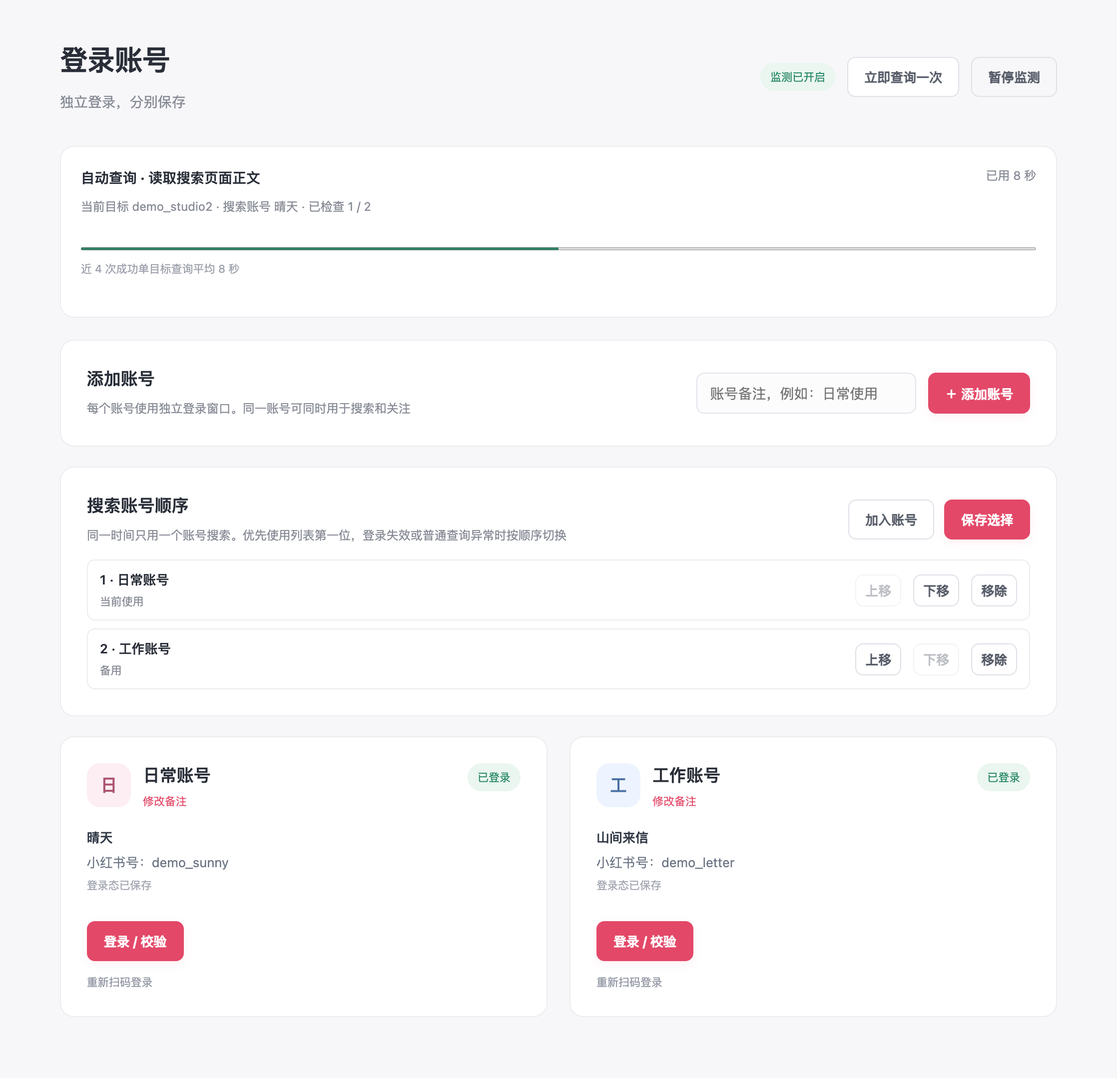
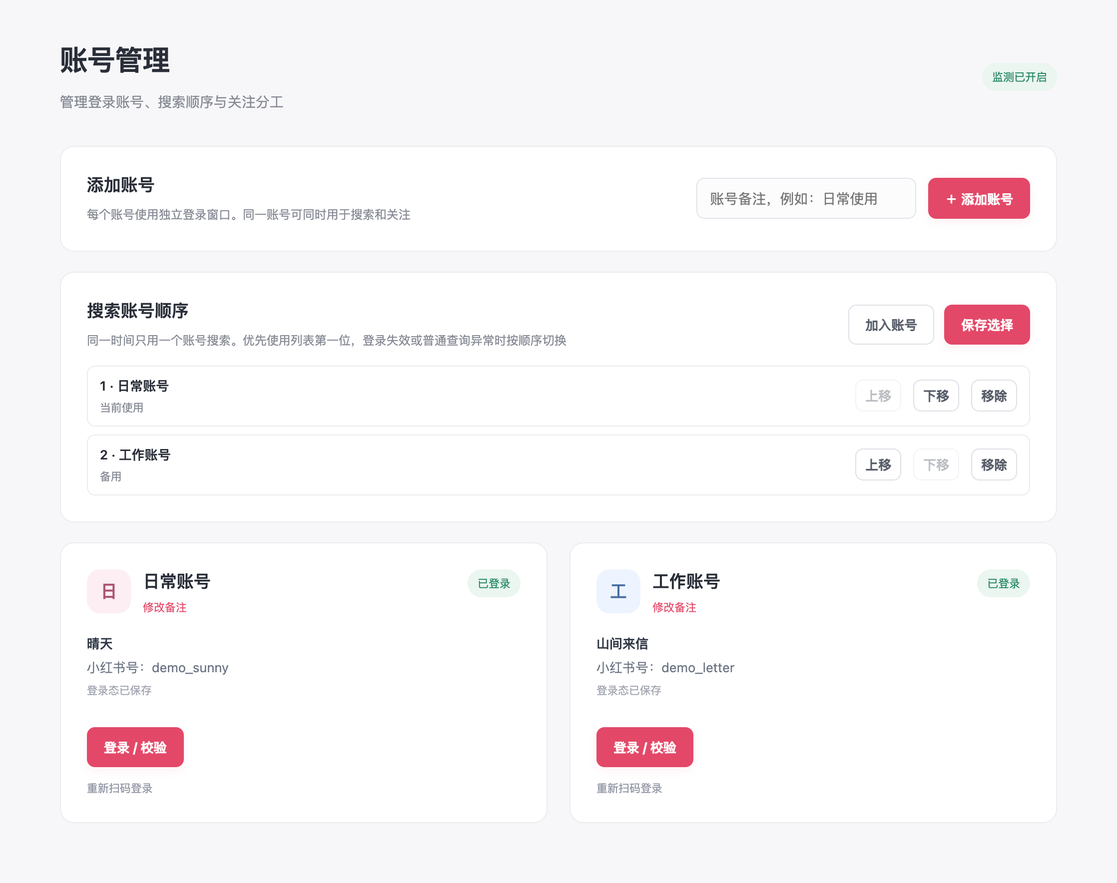
Combine monitoring overview and stabilize initial rendering
Keep metrics, query progress, and controls together on the overview page. Rename navigation pages, align icon slots, bootstrap public state safely to avoid empty refresh renders, and refresh README screenshots.

diff --git a/web/index.html b/web/index.html
@@ -1,9 +1,17 @@
 <!doctype html><html lang="zh-CN"><head><meta charset="utf-8"><meta name="viewport" content="width=device-width,initial-scale=1"><meta name="csrf-token" content="__CSRF_TOKEN__"><title>红薯雷达 · Rednote Watchdesk</title><link rel="icon" type="image/svg+xml" href="/favicon.svg"><link rel="stylesheet" href="/css/style.css"><link rel="stylesheet" href="/css/motion.css"><script type="module" src="/js/app.js"></script></head><body>
-<aside><a class="brand" href="/"><img class="brand-icon" src="/favicon.svg" width="43" height="43" alt=""><span>红薯雷达<small>REDNOTE WATCHDESK</small></span></a><nav><button class="nav active" data-tab="people" aria-current="page">◎ <span>监控目标</span></button><button class="nav" data-tab="accounts">◉ <span>登录账号</span></button><button class="nav" data-tab="settings">⚙ <span>轮询与通知</span></button></nav></aside>
-<main><header><div><h1 id="page-title">监控目标</h1><p id="page-subtitle">管理候选账号、查询状态与自动关注</p></div><div class="header-actions"><span id="global-status" class="pill">读取中</span><button class="button" id="check-now" disabled title="按已保存配置运行一轮，暂停时也可使用；不会开启自动轮询">立即查询一次</button><button class="button quiet" id="pause">暂停监测</button><button class="button quiet hidden" id="resume">恢复监测</button></div></header>
-<section id="query-progress" class="panel" aria-live="polite"><div class="row"><strong id="query-progress-title">查询进度 · 等待首次查询</strong><span id="query-progress-elapsed">尚无记录</span></div><p id="query-progress-detail">暂无查询记录</p><progress id="query-progress-bar" max="1" value="0" aria-label="查询目标完成进度"></progress><p id="query-progress-hint" class="hint">自动和手动查询的进度都会显示在这里。</p></section>
-<section id="people-tab"><div class="stats" aria-busy="true"><div><span>监控目标</span><strong id="people-count">—</strong></div><div><span>候选账号</span><strong id="candidate-count">—</strong></div><div><span>已经命中</span><strong id="matched-count">—</strong></div><div><span>后台最近运行</span><strong class="time" id="last-run">—</strong></div></div><div class="section-heading people-toolbar">
-  <div><h2>监控列表</h2><p>任一候选命中后，同组其余候选将停止查询</p></div>
+<aside><a class="brand" href="/"><img class="brand-icon" src="/favicon.svg" width="43" height="43" alt=""><span>红薯雷达<small>REDNOTE WATCHDESK</small></span></a><nav><button class="nav active" data-tab="people" aria-current="page"><span class="nav-icon" aria-hidden="true">◎</span><span class="nav-label">监测总览</span></button><button class="nav" data-tab="accounts"><span class="nav-icon" aria-hidden="true">◉</span><span class="nav-label">账号管理</span></button><button class="nav" data-tab="settings"><span class="nav-icon" aria-hidden="true">⚙</span><span class="nav-label">监测设置</span></button></nav></aside>
+<main><header><div><h1 id="page-title">监测总览</h1><p id="page-subtitle">查看监测状态、查询进度与目标动态</p></div><div class="header-actions"><span id="global-status" class="pill">读取中</span></div></header>
+<section id="people-tab">
+  <section class="panel overview-card" aria-labelledby="overview-title">
+    <div class="overview-heading">
+      <div><h2 id="overview-title">监测概览</h2><p class="overview-meta">最近调度 <span id="last-run">尚未运行</span></p></div>
+      <div class="overview-actions"><button class="button primary" id="check-now" disabled title="按已保存配置运行一轮，暂停时也可使用；不会开启自动轮询">立即查询一次</button><button class="button quiet" id="pause">暂停监测</button><button class="button quiet hidden" id="resume">恢复监测</button></div>
+    </div>
+    <div class="stats" aria-busy="true"><div><span>目标总数</span><strong id="people-count">—</strong></div><div><span>待命中</span><strong id="pending-count">—</strong></div><div><span>已命中</span><strong id="matched-count">—</strong></div><div><span>需处理</span><strong id="attention-count">—</strong></div></div>
+    <div id="query-progress" aria-live="polite"><div class="row"><strong id="query-progress-title">查询进度 · 等待首次查询</strong><span id="query-progress-elapsed">尚无记录</span></div><p id="query-progress-detail">暂无查询记录</p><progress id="query-progress-bar" max="1" value="0" aria-label="查询目标完成进度"></progress><p id="query-progress-hint" class="hint">自动和手动查询的进度都会显示在这里。</p></div>
+  </section>
+  <div class="section-heading people-toolbar">
+  <div><h2>监测目标</h2><p>管理候选账号，查看发现结果与自动关注状态</p></div>
   <div class="people-actions">
     <div class="people-action-buttons"><button class="button" id="add-person">＋ 新增目标</button><button class="button primary" id="save-people">保存配置</button></div>
     <span id="save-hint" role="status"></span>
@@ -74,4 +82,4 @@
     <div class="dialog-footer"><button type="button" id="cancel-rename-account" class="button">取消</button><button type="submit" id="save-account-label" class="button primary">保存备注</button></div>
   </form>
 </dialog>
-<div id="toast" role="status"></div></body></html>
+<div id="toast" role="status"></div><script id="initial-state" type="application/json">__INITIAL_STATE__</script></body></html>

diff --git a/web/css/style.css b/web/css/style.css
@@ -16,8 +16,9 @@ aside { position: fixed; inset: 0 auto 0 0; width: 242px; padding: 34px 22px; ba
 .brand-icon { display: block; flex: 0 0 auto; width: 43px; height: 43px; }
 .brand small { display: block; font-size: 8px; letter-spacing: 1.5px; margin-top: 7px; color: #989aa4; font-weight: 600; }
 nav { margin-top: 50px; display: grid; gap: 10px; }
-.nav { border: 0; background: transparent; border-radius: 10px; padding: 15px; text-align: left; color: #8b8e99; font-size: 18px; }
-.nav span { font-size: 14px; margin-left: 12px; }
+.nav { display: flex; align-items: center; gap: 12px; border: 0; background: transparent; border-radius: 10px; padding: 15px; text-align: left; color: #8b8e99; }
+.nav-icon { display: grid; place-items: center; flex: 0 0 24px; width: 24px; font-size: 20px; line-height: 1; }
+.nav-label { font-size: 14px; }
 .nav.active { color: var(--pink); background: #fff0f4; font-weight: 650; }
 main { margin-left: 242px; padding: 40px clamp(24px, 4.4vw, 76px); max-width: 1600px; }
 header { display: flex; align-items: center; justify-content: space-between; gap: 20px; margin-bottom: 32px; }
@@ -33,13 +34,20 @@ p { color: var(--muted); line-height: 1.7; margin: 0; }
 .button.primary { background: var(--pink); border-color: var(--pink); color: #fff; box-shadow: 0 3px 9px #e3486815; }
 .button.quiet { background: transparent; }
 .button:disabled { opacity: .5; cursor: wait; }
-.stats { display: grid; grid-template-columns: repeat(4, 1fr); background: #fff; border: 1px solid var(--line); border-radius: 14px; padding: 23px 0; margin-bottom: 30px; }
+.overview-card { margin-bottom: 24px; }
+.overview-heading { display: flex; align-items: center; justify-content: space-between; gap: 18px; margin-bottom: 24px; }
+.overview-heading h2 { margin: 0; }
+.overview-meta { margin-top: 6px; font-size: 11px; }
+.overview-actions { display: flex; flex-wrap: wrap; justify-content: flex-end; gap: 10px; }
+.stats { display: grid; grid-template-columns: repeat(4, 1fr); }
 .stats > div { padding: 0 25px; border-right: 1px solid var(--line); }
+.stats > div:first-child { padding-left: 0; }
 .stats > div:last-child { border: 0; }
 .stats span { display: block; font-size: 12px; color: #9195a0; }
 .stats strong { display: block; margin-top: 10px; font-size: 28px; font-weight: 650; }
 .stats[aria-busy="true"] strong { visibility: hidden; }
-.stats .time { font-size: 20px; padding-top: 5px; }
+#matched-count { color: var(--green); }
+#attention-count.has-attention { color: #b77937; }
 .section-heading { display: flex; justify-content: space-between; align-items: center; gap: 18px; margin-bottom: 22px; }
 .section-heading p { font-size: 12px; }
 .list-tools { display: flex; align-items: center; justify-content: space-between; gap: 16px; margin-bottom: 17px; }
@@ -95,7 +103,7 @@ p { color: var(--muted); line-height: 1.7; margin: 0; }
 .match-summary { color: #4f8d70; }
 .match-info a { display: inline-block; margin-top: 4px; color: #5e917a; text-decoration: none; }
 .query-error { color: #a76b38; }
-#query-progress { display: grid; gap: 8px; padding: 20px; margin-bottom: 22px; overflow-wrap: anywhere; }
+#query-progress { display: grid; gap: 8px; padding-top: 20px; margin-top: 24px; border-top: 1px solid var(--line); overflow-wrap: anywhere; }
 #query-progress .row { display: grid; grid-template-columns: minmax(0, 1fr) auto; align-items: start; gap: 16px; margin: 0; }
 #query-progress-title { min-width: 0; line-height: 1.6; overflow: hidden; text-overflow: ellipsis; white-space: nowrap; }
 #query-progress-elapsed { color: var(--muted); font-size: 12px; }
@@ -156,7 +164,6 @@ p { color: var(--muted); line-height: 1.7; margin: 0; }
   h1 { font-size: 25px; }
   .header-actions { flex-direction: column; align-items: flex-end; }
   .stats > div { padding: 0 14px; }
-  .stats .time { font-size: 16px; }
   .target-grid { grid-template-columns: repeat(2, minmax(0, 1fr)); gap: 14px; }
   .person-top, .person-body { padding-left: 14px; padding-right: 14px; }
   .target-meta, .follow-option { padding-left: 14px; padding-right: 14px; }
@@ -167,16 +174,20 @@ p { color: var(--muted); line-height: 1.7; margin: 0; }
   .brand-icon { width: 34px; height: 34px; }
   .brand small { font-size: 7px; margin-top: 4px; }
   nav { display: flex; gap: 5px; margin-top: 18px; }
-  .nav { flex: 1; padding: 10px 6px; text-align: center; font-size: 14px; }
-  .nav span { margin-left: 4px; font-size: 11px; }
+  .nav { flex: 1; justify-content: center; gap: 6px; padding: 10px 6px; }
+  .nav-icon { flex-basis: 18px; width: 18px; font-size: 16px; }
+  .nav-label { font-size: 11px; }
   main { margin: 0; padding: 27px 18px; }
   h1 { font-size: 24px; }
   header p { font-size: 12px; }
   .header-actions { gap: 10px; }
-  .stats { grid-template-columns: 1fr 1fr; gap: 20px 0; padding: 22px 0; }
+  .overview-heading { flex-direction: column; align-items: stretch; }
+  .overview-actions { justify-content: stretch; }
+  .overview-actions .button { flex: 1; }
+  .stats { grid-template-columns: 1fr 1fr; gap: 20px 0; }
   .stats > div { padding: 0 20px; }
+  .stats > div:nth-child(odd) { padding-left: 0; }
   .stats > div:nth-child(2) { border: 0; }
-  .stats .time { font-size: 20px; }
   .section-heading p { max-width: 230px; }
   .target-grid { grid-template-columns: repeat(2, minmax(0, 1fr)); }
   .account-grid { grid-template-columns: 1fr; gap: 0; }

diff --git a/web/js/app.js b/web/js/app.js
@@ -37,8 +37,8 @@ function switchTab(tab) {
     else node.removeAttribute('aria-current');
   });
   reveal($('#page-title').parentElement, 5);
-  $('#page-title').textContent = {people: '监控目标', accounts: '登录账号', settings: '轮询与通知'}[tab];
-  $('#page-subtitle').textContent = {people: '管理候选账号、查询状态与自动关注', accounts: '独立登录，分别保存', settings: '让雷达按你的节奏运行'}[tab];
+  $('#page-title').textContent = {people: '监测总览', accounts: '账号管理', settings: '监测设置'}[tab];
+  $('#page-subtitle').textContent = {people: '查看监测状态、查询进度与目标动态', accounts: '管理登录账号、搜索顺序与关注分工', settings: '调整查询节奏与飞书通知'}[tab];
 }
 function readEditors() {
   // Hidden cards remain in the draft and must be included when saving a filtered list.
@@ -69,9 +69,15 @@ function cardState(card) {
 }
 function updateStats() {
   const people = readEditors();
+  const states = $$('.person-card').map(card => cardState(card).state);
+  const matched = states.filter(state => state?.matched_target).length;
+  const attention = states.filter(state => state?.query_errors?.length ||
+    ['failed', 'blocked', 'retry'].includes(state?.follow_status)).length;
   $('#people-count').textContent = people.length;
-  $('#candidate-count').textContent = people.reduce((count, person) => count + person.candidates.length, 0);
-  $('#matched-count').textContent = $$('.person-card').filter(card => cardState(card).state?.matched_target).length;
+  $('#pending-count').textContent = people.length - matched;
+  $('#matched-count').textContent = matched;
+  $('#attention-count').textContent = attention;
+  $('#attention-count').classList.toggle('has-attention', attention > 0);
   for (const card of $$('.person-card')) {
     const count = [...card.querySelectorAll('.candidate-input')].filter(input => input.value.trim()).length;
     card.querySelector('.candidate-total').textContent = count + ' 个候选';
@@ -378,18 +384,20 @@ function renderStatus({initial = false, saved = false} = {}) {
     applyFilters();
   }
 }
+function applySnapshot(snapshot) {
+  const initial = !latest;
+  latest = snapshot;
+  if (initial) {
+    searchAccountIds = latest.config.search_account_ids;
+    version = latest.version; $('#interval').value = latest.config.interval_seconds / 60;
+    renderPeople(latest.config.people);
+    $('#mentions').value = latest.notifications.mention_users.map(user => user.name + ',' + user.user_id).join('\n');
+  }
+  renderStatus({initial});
+}
 async function load() {
   try {
-    const snapshot = await api('/api/state');
-    const initial = !latest;
-    latest = snapshot;
-    if (initial) {
-      searchAccountIds = latest.config.search_account_ids;
-      version = latest.version; $('#interval').value = latest.config.interval_seconds / 60;
-      renderPeople(latest.config.people);
-      $('#mentions').value = latest.notifications.mention_users.map(user => user.name + ',' + user.user_id).join('\n');
-    }
-    renderStatus({initial});
+    applySnapshot(await api('/api/state'));
   } catch (error) { toast(error.message, true); }
 }
 async function savePeople() {
@@ -505,4 +513,10 @@ $('#save-notifications').onclick = async () => {
 };
 // Browsers require their own synchronous prompt when leaving with unsaved edits.
 window.addEventListener('beforeunload', event => { if (dirty) { event.preventDefault(); event.returnValue = ''; } });
+// The document carries the first snapshot, so refresh need not paint empty data
+// while a separate state request is still in flight. Subsequent polls stay fresh.
+try {
+  const initial = JSON.parse($('#initial-state')?.textContent || 'null');
+  if (initial?.config && initial?.state) applySnapshot(initial);
+} catch { /* Static previews can still load their state through the API. */ }
 load(); setInterval(() => load(), 2000); setInterval(renderQueryProgress, 1000);

diff --git a/tests/ui_smoke.py b/tests/ui_smoke.py
@@ -37,18 +37,31 @@ def exercise(page, root, reduced):
     expect(progress_panel).to_be_visible()
     expect(page.locator('#query-progress-title')).to_have_text('查询进度 · 等待首次查询')
     initial_progress_height = progress_panel.bounding_box()['height']
-    expect(stats.locator('#people-count')).to_be_hidden()
+    # The document snapshot renders immediately even while the first poll is held.
+    expect(stats.locator('#people-count')).to_be_visible()
+    expect(stats.locator('#people-count')).to_have_text('3')
+    expect(page.locator('.person-card')).to_have_count(3)
+    page.evaluate('window.bootCard = document.querySelector(".person-card")')
     stats_height = stats.bounding_box()['height']
     initial_requests[0].continue_()
     expect(page.locator('.person-card')).to_have_count(3)
     expect(page.locator('.person-card:visible')).to_have_count(2)
     expect(stats.locator('#people-count')).to_be_visible()
     expect(stats.locator('#people-count')).to_have_text('3')
+    expect(page.locator('#page-title')).to_have_text('监测总览')
+    expect(stats.locator('#pending-count')).to_have_text('2')
+    expect(stats.locator('#matched-count')).to_have_text('1')
+    expect(stats.locator('#attention-count')).to_have_text('0')
+    assert page.locator('.overview-card').locator('#query-progress').count() == 1
+    assert page.locator('.overview-card').locator('#check-now').count() == 1
     expect(page.locator('.brand-icon')).to_have_attribute('src', '/favicon.svg')
     assert page.locator('.brand-icon').evaluate('img => img.complete && img.naturalWidth > 0')
     assert page.locator('.brand-icon').get_attribute('src') == page.locator('link[rel="icon"]').get_attribute('href')
     assert stats.bounding_box()['height'] == stats_height
     assert progress_panel.bounding_box()['height'] == initial_progress_height
+    assert page.evaluate('window.bootCard === document.querySelector(".person-card")')
+    label_positions = page.locator('.nav-label').evaluate_all('nodes => nodes.map(node => node.getBoundingClientRect().left)')
+    assert len(set(label_positions)) == 1, label_positions
     assert page.evaluate('window.cardAnimations') == 0
     unfinished = page.locator('[data-filter="unfinished"]')
     expect(page.locator('.filter-button')).to_have_count(3)
@@ -65,8 +78,13 @@ def exercise(page, root, reduced):
       }
       document.querySelector('[data-tab="accounts"]').click();
     }''')
-    expect(page.locator('main > section:visible').filter(has_not=page.locator('#query-progress-title'))).to_have_count(1)
+    expect(page.locator('main > section:visible')).to_have_count(1)
     expect(page.locator('#accounts-tab')).to_be_visible()
+    expect(page.locator('#page-title')).to_have_text('账号管理')
+    expect(page.locator('#page-subtitle')).to_have_text('管理登录账号、搜索顺序与关注分工')
+    expect(progress_panel).to_be_hidden()
+    expect(page.locator('#check-now')).to_be_hidden()
+    expect(page.locator('#global-status')).to_be_visible()
     if reduced:
         assert page.evaluate('document.getAnimations().length') == 0
     else:
@@ -139,6 +157,8 @@ def exercise(page, root, reduced):
     expect(search_order.locator('small')).to_have_text(['登录已失效', '当前使用', '待登录'], timeout=7000)
     page.locator('[data-tab="people"]').click()
     expect(page.locator('.name').first).to_have_value('编辑中的目标')
+    expect(progress_panel).to_be_visible()
+    expect(page.locator('#page-title')).to_have_text('监测总览')
 
     page.locator('[data-filter="completed"]').click()
     expect(page.locator('.person-card:visible')).to_have_count(1)
@@ -328,6 +348,12 @@ def exercise(page, root, reduced):
     for tab in ['people', 'accounts', 'settings']:
         page.locator(f'[data-tab="{tab}"]').click()
         expect(page.locator(f'#{tab}-tab')).to_be_visible()
+        expect(page.locator('#page-title')).to_have_text({'people': '监测总览', 'accounts': '账号管理', 'settings': '监测设置'}[tab])
+        if tab == 'people':
+            expect(page.locator('.overview-card')).to_be_visible()
+        else:
+            expect(page.locator('.overview-card')).to_be_hidden()
+            expect(page.locator('#check-now')).to_be_hidden()
         assert page.evaluate('document.documentElement.scrollWidth <= innerWidth'), tab
     page.locator('[data-tab="accounts"]').click()
     search_order.get_by_role('button', name='移除 备用账号').click()
@@ -376,6 +402,7 @@ def exercise(page, root, reduced):
     expect(error_card).to_contain_text('读取首页正文超时')
     expect(error_card).to_contain_text('连续失败 3 次')
     expect(error_card).to_contain_text('下次重试')
+    expect(page.locator('#attention-count')).to_have_text('1')
     assert page.evaluate('document.documentElement.scrollWidth <= innerWidth')
     page.locator('[data-tab="accounts"]').click()
     expect(search_order).to_contain_text('读取首页正文超时')
@@ -389,6 +416,7 @@ def exercise(page, root, reduced):
     snapshot['state']['search_account_error_details'] = {}
     page.reload()
     expect(page.locator('.query-error')).to_have_count(0)
+    expect(page.locator('#attention-count')).to_have_text('0')
     # One manual request runs while paused and never toggles automatic polling.
     snapshot['jobs'] = []
     snapshot['state']['paused'] = False

diff --git a/scripts/capture_screenshots.py b/scripts/capture_screenshots.py
@@ -91,7 +91,7 @@ def main():
     with sync_playwright() as playwright:
         browser = playwright.chromium.launch(channel='chrome', headless=True)
         try:
-            context = browser.new_context(viewport={'width': 1360, 'height': 1200}, device_scale_factor=2,
+            context = browser.new_context(viewport={'width': 1360, 'height': 1280}, device_scale_factor=2,
                                           reduced_motion='reduce', service_workers='block')
             # Keep progress timers reproducible without changing browser scheduling.
             context.add_init_script('Date.now = () => ' + str(int(DEMO_TIME*1000)))
@@ -103,6 +103,10 @@ def main():
             expect(page.locator('.person-card')).to_have_count(3)
             expect(page.locator('#last-run')).to_have_text('18:00:00')
             expect(page.locator('#global-status')).to_have_text('监测已开启')
+            expect(page.locator('#page-title')).to_have_text('监测总览')
+            expect(page.locator('#pending-count')).to_have_text('1')
+            expect(page.locator('#matched-count')).to_have_text('2')
+            expect(page.locator('#attention-count')).to_have_text('0')
             expect(page.locator('#query-progress-title')).to_have_text('自动查询 · 读取搜索页面正文')
             expect(page.locator('#query-progress-elapsed')).to_have_text('已用 8 秒')
             expect(page.locator('.brand-icon')).to_have_attribute('src', '/favicon.svg')
@@ -126,7 +130,7 @@ def main():
             page.reload()
             expect(page.locator('#query-progress-title')).to_have_text('手动查询 · 本轮已完成')
             expect(page.locator('#query-progress-detail')).to_have_text('已检查 2 / 2 · 成功 2，失败 0，发现 0')
-            page.locator('#query-progress').screenshot(path=str(DOCS/'query-summary.png'))
+            page.locator('.overview-card').screenshot(path=str(DOCS/'query-summary.png'))
             progress.clear(); progress.update(running)
             page.reload()
             expect(page.locator('#query-progress-title')).to_have_text('自动查询 · 读取搜索页面正文')
@@ -143,6 +147,9 @@ def main():
             page.locator('#cancel-follow-dialog').click()
 
             page.locator('[data-tab="accounts"]').click()
+            expect(page.locator('#page-title')).to_have_text('账号管理')
+            expect(page.locator('#query-progress')).to_be_hidden()
+            expect(page.locator('#check-now')).to_be_hidden()
             expect(page.locator('.account-card')).to_have_count(2)
             expect(page.locator('.rename-account').first).to_be_visible()
             assert page.evaluate('document.documentElement.scrollWidth <= innerWidth')

diff --git a/rednote_watchdesk/config_server.py b/rednote_watchdesk/config_server.py
@@ -266,7 +266,15 @@ class Handler(BaseHTTPRequestHandler):
             assets={'/':('index.html','text/html; charset=utf-8'),'/favicon.svg':('favicon.svg','image/svg+xml'),'/js/app.js':('js/app.js','application/javascript; charset=utf-8'),'/js/motion.js':('js/motion.js','application/javascript; charset=utf-8'),'/js/accounts.js':('js/accounts.js','application/javascript; charset=utf-8'),'/css/style.css':('css/style.css','text/css; charset=utf-8'),'/css/motion.css':('css/motion.css','text/css; charset=utf-8')}
             if self.path not in assets:return self.respond(404,{'error':'未找到'})
             name,mime=assets[self.path];text=(PROJECT/'web'/name).read_text()
-            if name=='index.html':text=text.replace('__CSRF_TOKEN__',TOKEN)
+            if name=='index.html':
+                try:
+                    initial = payload()
+                except Exception:
+                    initial = None
+                # JSON lives in a non-executable script element. Escape HTML
+                # delimiters so a target name cannot close it and inject markup.
+                initial_json = json.dumps(initial,ensure_ascii=False).replace('<','\\u003c').replace('>','\\u003e').replace('&','\\u0026')
+                text=text.replace('__CSRF_TOKEN__',TOKEN).replace('__INITIAL_STATE__',initial_json)
             self.respond(200,text,mime)
         except Exception:
             self.respond(500,{'error':'读取配置失败，请检查本机日志'})

diff --git a/tests/test_config_server.py b/tests/test_config_server.py
@@ -23,6 +23,14 @@ class ServerTests(unittest.TestCase):
   r=c.getresponse();data=r.read().decode();c.close();return r.status,data
  def test_state_never_returns_notification_secrets(self):
   code,data=self.request('/api/state');self.assertEqual(code,200);self.assertNotIn('PRIVATE_TEST_VALUE',data);self.assertNotIn('PRIVATE_SIGNING_VALUE',data)
+ def test_initial_document_snapshot_is_safe_and_preserves_target_text(self):
+  name='</script><script>window.injected=true</script>'
+  server.write(self.root/'config.json',{'people':[{'id':'person','name':name,'candidates':['example_person']}],'search_account_ids':[]})
+  code,html=self.request('/');self.assertEqual(code,200)
+  encoded=html.split('<script id="initial-state" type="application/json">',1)[1].split('</script>',1)[0]
+  self.assertEqual(json.loads(encoded)['config']['people'][0]['name'],name)
+  self.assertNotIn(name,html)
+  self.assertNotIn('PRIVATE_TEST_VALUE',html);self.assertNotIn('PRIVATE_SIGNING_VALUE',html)
  def test_page_and_module_assets_are_served_after_directory_move(self):
   code,html=self.request('/');self.assertEqual(code,200)
   self.assertIn('type="module" src="/js/app.js"',html)

diff --git a/README.md b/README.md
@@ -2,7 +2,7 @@
 
 在电脑上运行的小红书账号监测工具。每个目标可以填写多个候选小红书号，任一候选命中后就停止搜索同组其他候选。命中后可发送飞书通知，也可用选定的账号自动关注。
 
-![监控目标页面（演示数据）](docs/screenshot.png)
+![监测总览页面（演示数据）](docs/screenshot.png)
 
 ## 快速开始
 
@@ -17,13 +17,15 @@ cd rednote-watchdesk
 
 打开 http://127.0.0.1:8767
 
-1. 在「登录账号」添加账号并扫码登录。在「搜索账号顺序」加入账号，排好优先级后保存。
-2. 在「监控目标」添加目标和候选小红书号。如需自动关注，在目标卡片里选择执行账号，然后保存配置。
-3. 在「轮询与通知」调整查询间隔。需要飞书通知时，填写自定义机器人的 Webhook，保存后发送测试卡片。
+1. 在「账号管理」添加账号并扫码登录。在「搜索账号顺序」加入账号，排好优先级后保存。
+2. 在「监测总览」添加目标和候选小红书号。如需自动关注，在目标卡片里选择执行账号，然后保存配置。
+3. 在「监测设置」调整查询间隔。需要飞书通知时，填写自定义机器人的 Webhook，保存后发送测试卡片。
 
-点击页面右上角「立即查询一次」可跳过轮询间隔和重试等待，执行一轮已保存的配置；只查询尚未完成的候选，命中后按配置通知和自动关注。暂停时也可使用，执行后仍保持暂停；平台要求验证或限制访问时仍会停止。运行中无法重复提交，结束后显示本轮成功、失败和发现数量。
+点击「监测总览」中的「立即查询一次」可跳过轮询间隔和重试等待，执行一轮已保存的配置；只查询尚未完成的候选，命中后按配置通知和自动关注。暂停时也可使用，执行后仍保持暂停；平台要求验证或限制访问时仍会停止。运行中无法重复提交，结束后显示本轮成功、失败和发现数量。
 
-页面顶部始终保留查询进度区，没有记录时显示等待状态；运行时明确标注「自动查询」或「手动查询」，并显示当前目标、搜索账号、执行阶段、完成数量和已用时间。某阶段等待过长时会提示，成功单目标查询积累后会显示最近 20 轮中的平均耗时。点击暂停会立即停止后续调度，当前步骤安全收尾，不需要等待浏览器执行锁释放。
+「监测总览」顶部将目标总数、待命中、已命中、需处理四项指标，与查询进度和操作按钮合并在一张概览卡片中；指标按目标计数，一个目标的多个候选不重复计入。下方是具体监测目标，账号管理与监测设置页只展示各自内容。
+
+概览卡片始终保留查询进度，没有记录时显示等待状态；运行时明确标注「自动查询」或「手动查询」，并显示当前目标、搜索账号、执行阶段、完成数量和已用时间。某阶段等待过长时会提示，成功单目标查询积累后会显示最近 20 轮中的平均耗时。点击暂停会立即停止后续调度，当前步骤安全收尾，不需要等待浏览器执行锁释放。
 
 查询结束后只保留本轮检查数量、成功/失败/发现统计和耗时，当前目标与搜索账号会隐藏。页面标识与浏览器 Tab 图标共用同一份 SVG。
 
